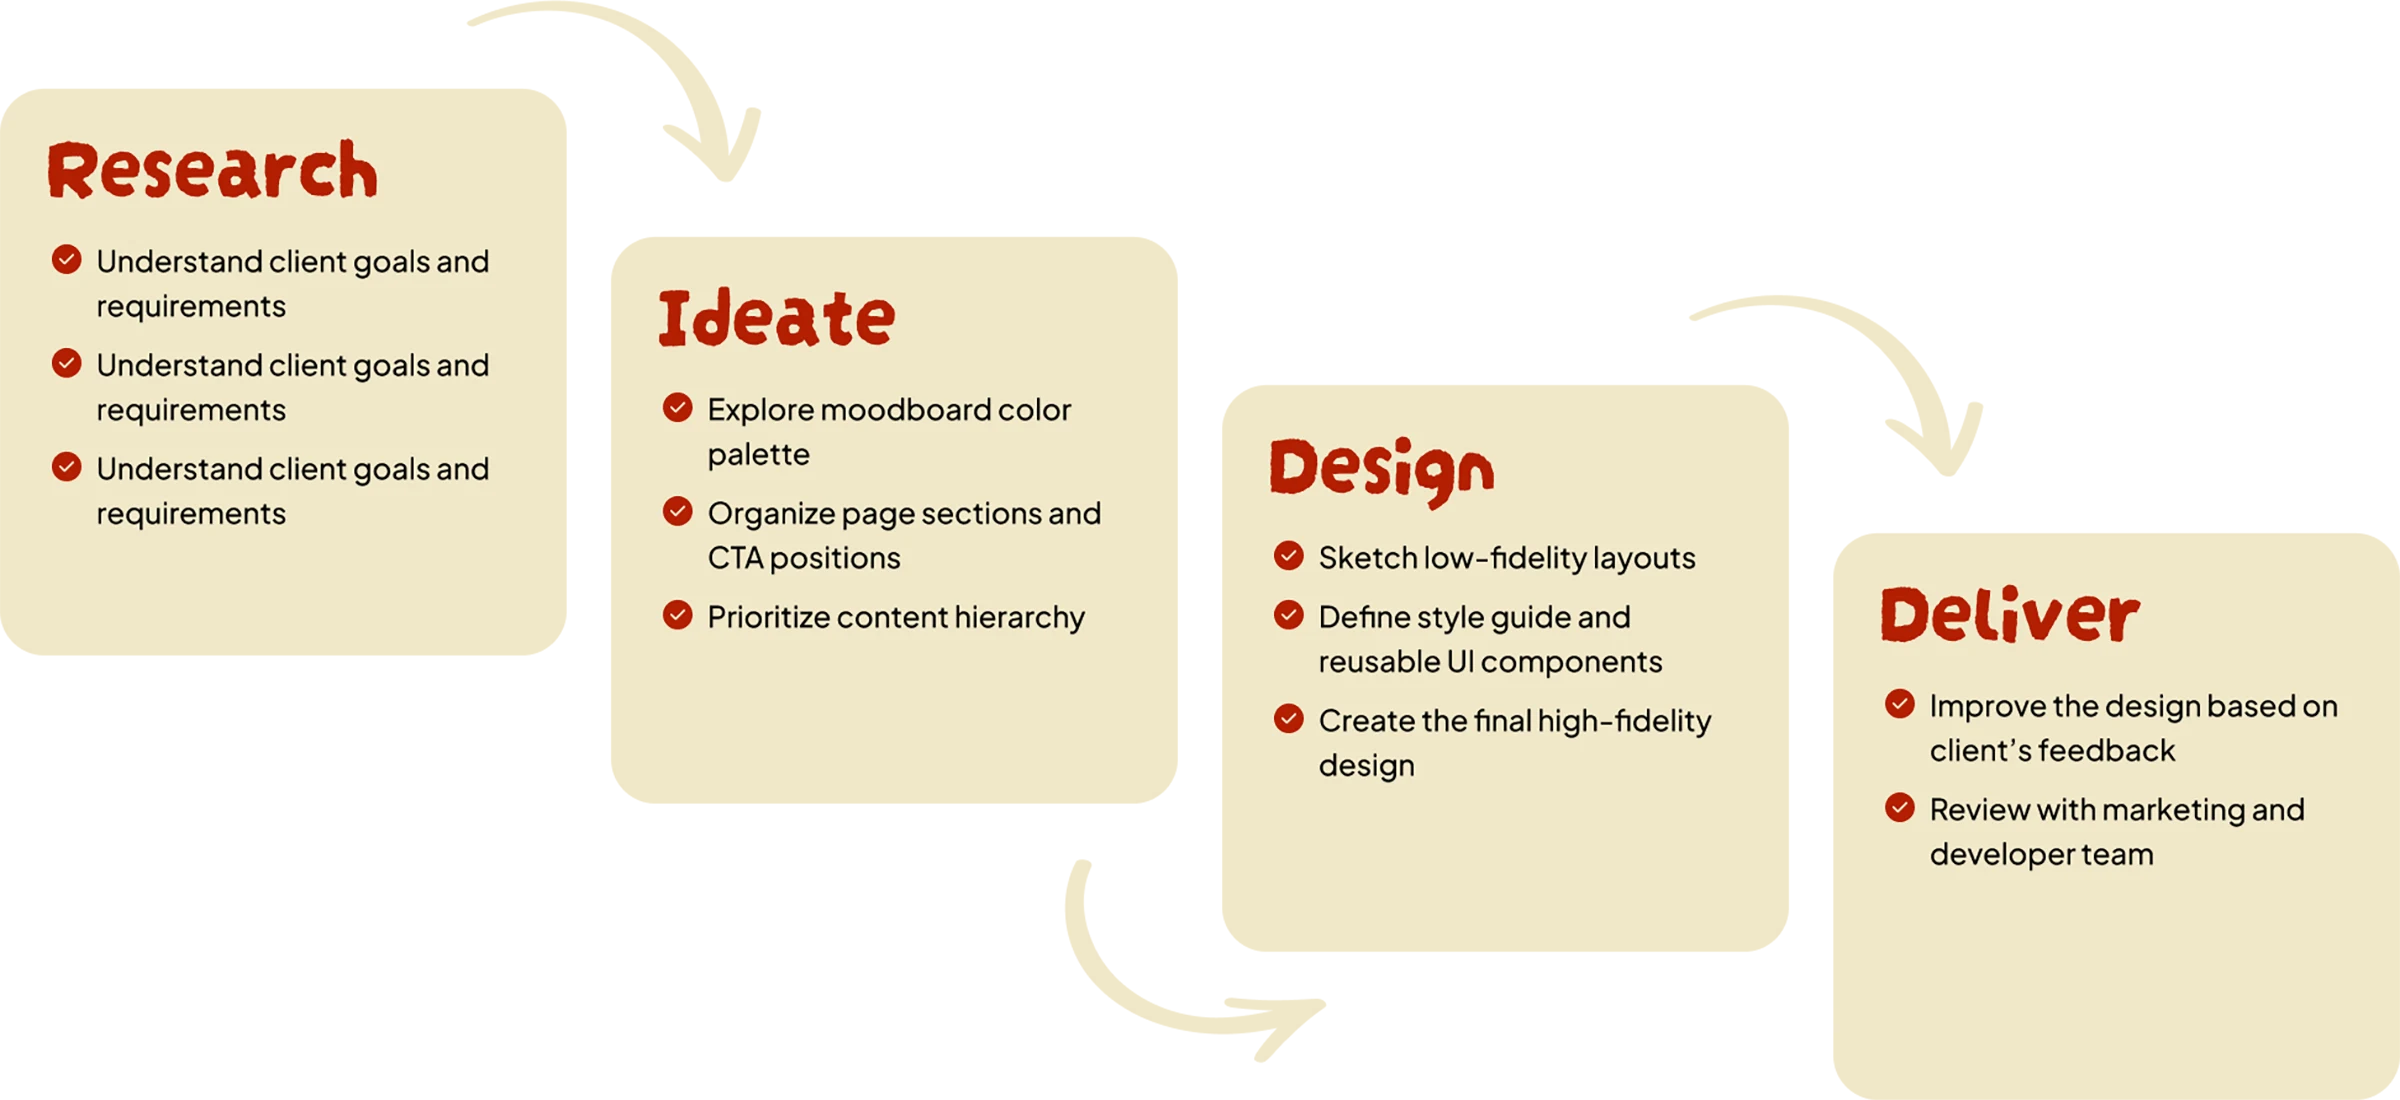
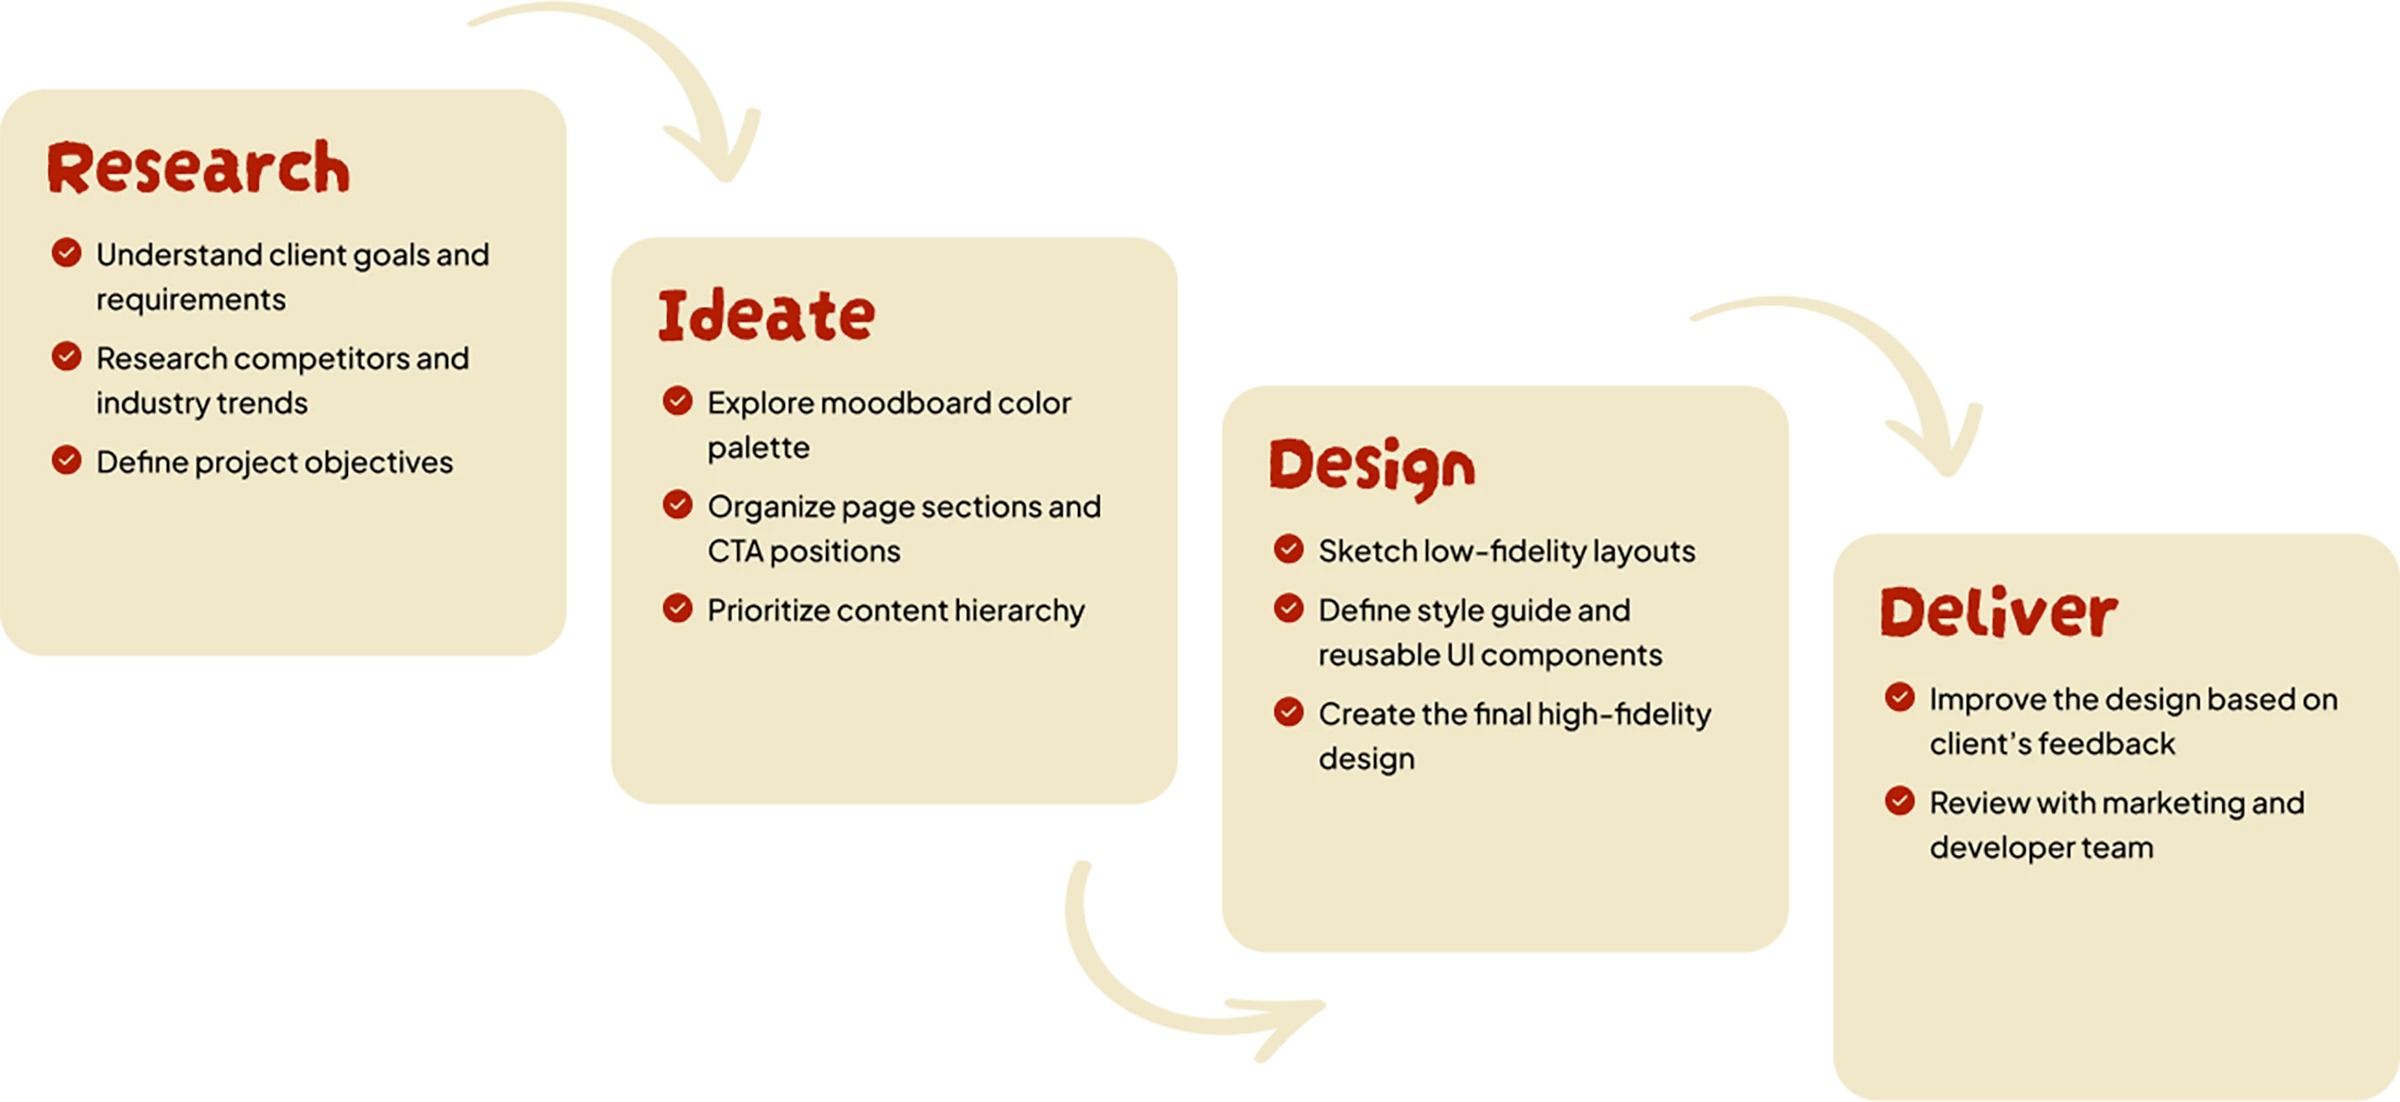
Refactor header flags & update Solenza content
Set view flags on res.locals (isAbout, isHeaderLight, showToc) in controllers instead of passing them into render context; remove redundant props from render calls. Tweak project-details layout padding and header markup, and adjust contact section responsive top padding. Update Solenza project JSON (description, section titles: Problem→Challenge, Solution→Approach). Replace/refresh several upload assets and .DS_Store files. Small whitespace/formatting cleanups in controllers and contact partial.

diff --git a/controllers/project.controller.js b/controllers/project.controller.js
@@ -3,6 +3,7 @@ import projectService from "../services/project.service.js";
 const getProjects = async(req, res) => {
   const data = await projectService.getWorkPage();
   const projects = await projectService.getAllProjects();
+
   res.render('pages/projects', { title: data.title, ...data, projects});
 }
 
@@ -11,7 +12,10 @@ const getProjectDetail = async(req, res, next) => {
     const slug = req.params.slug;
     const project = await projectService.getProjectBySlug(slug);
     const recommendedProjects = await projectService.getRecommendedProjects(slug);
-    res.render('pages/project-details', { title: `${project.title}`, showToc: true, recommend: recommendedProjects, ...project });
+
+    res.locals.showToc = true
+
+    res.render('pages/project-details', { title: `${project.title}`, recommend: recommendedProjects, ...project });
   } catch (err) {
     next(err);
   }

diff --git a/controllers/home.controller.js b/controllers/home.controller.js
@@ -8,7 +8,10 @@ const getHome = async(req, res) => {
   const brands = await sectionService.getBrands();
   const contactForm = await sectionService.getContactForm();
   const skills = await sectionService.getSkills();
-  res.render('pages/home', { title: data.title, isHeaderLight: true, brands, projects, skills, contactForm, ...data });
+
+  res.locals.isHeaderLight = true
+
+  res.render('pages/home', { title: data.title, brands, projects, skills, contactForm, ...data });
 }
 
 export default {

diff --git a/controllers/about.controller.js b/controllers/about.controller.js
@@ -6,7 +6,10 @@ const getAbout = async(req, res) => {
   const brands = await sectionService.getBrands();
   const skills = await sectionService.getSkills();
   const quote = await sectionService.getQuote();
-  res.render('pages/about', {title: data.title, isAbout: true, brands, skills, quote, ...data});
+
+  res.locals.isAbout = true
+
+  res.render('pages/about', {title: data.title, brands, skills, quote, ...data});
 }
 
 export default {

diff --git a/controllers/contact.controller.js b/controllers/contact.controller.js
@@ -5,6 +5,7 @@ const getContact = async(req, res) => {
   const data = await contactService.getContactPage();
   const contactForm = await sectionService.getContactForm();
   const quote = await sectionService.getQuote();
+  
   res.render('pages/contact', { title: data.title, contactForm, quote, ...data});
 }
 
